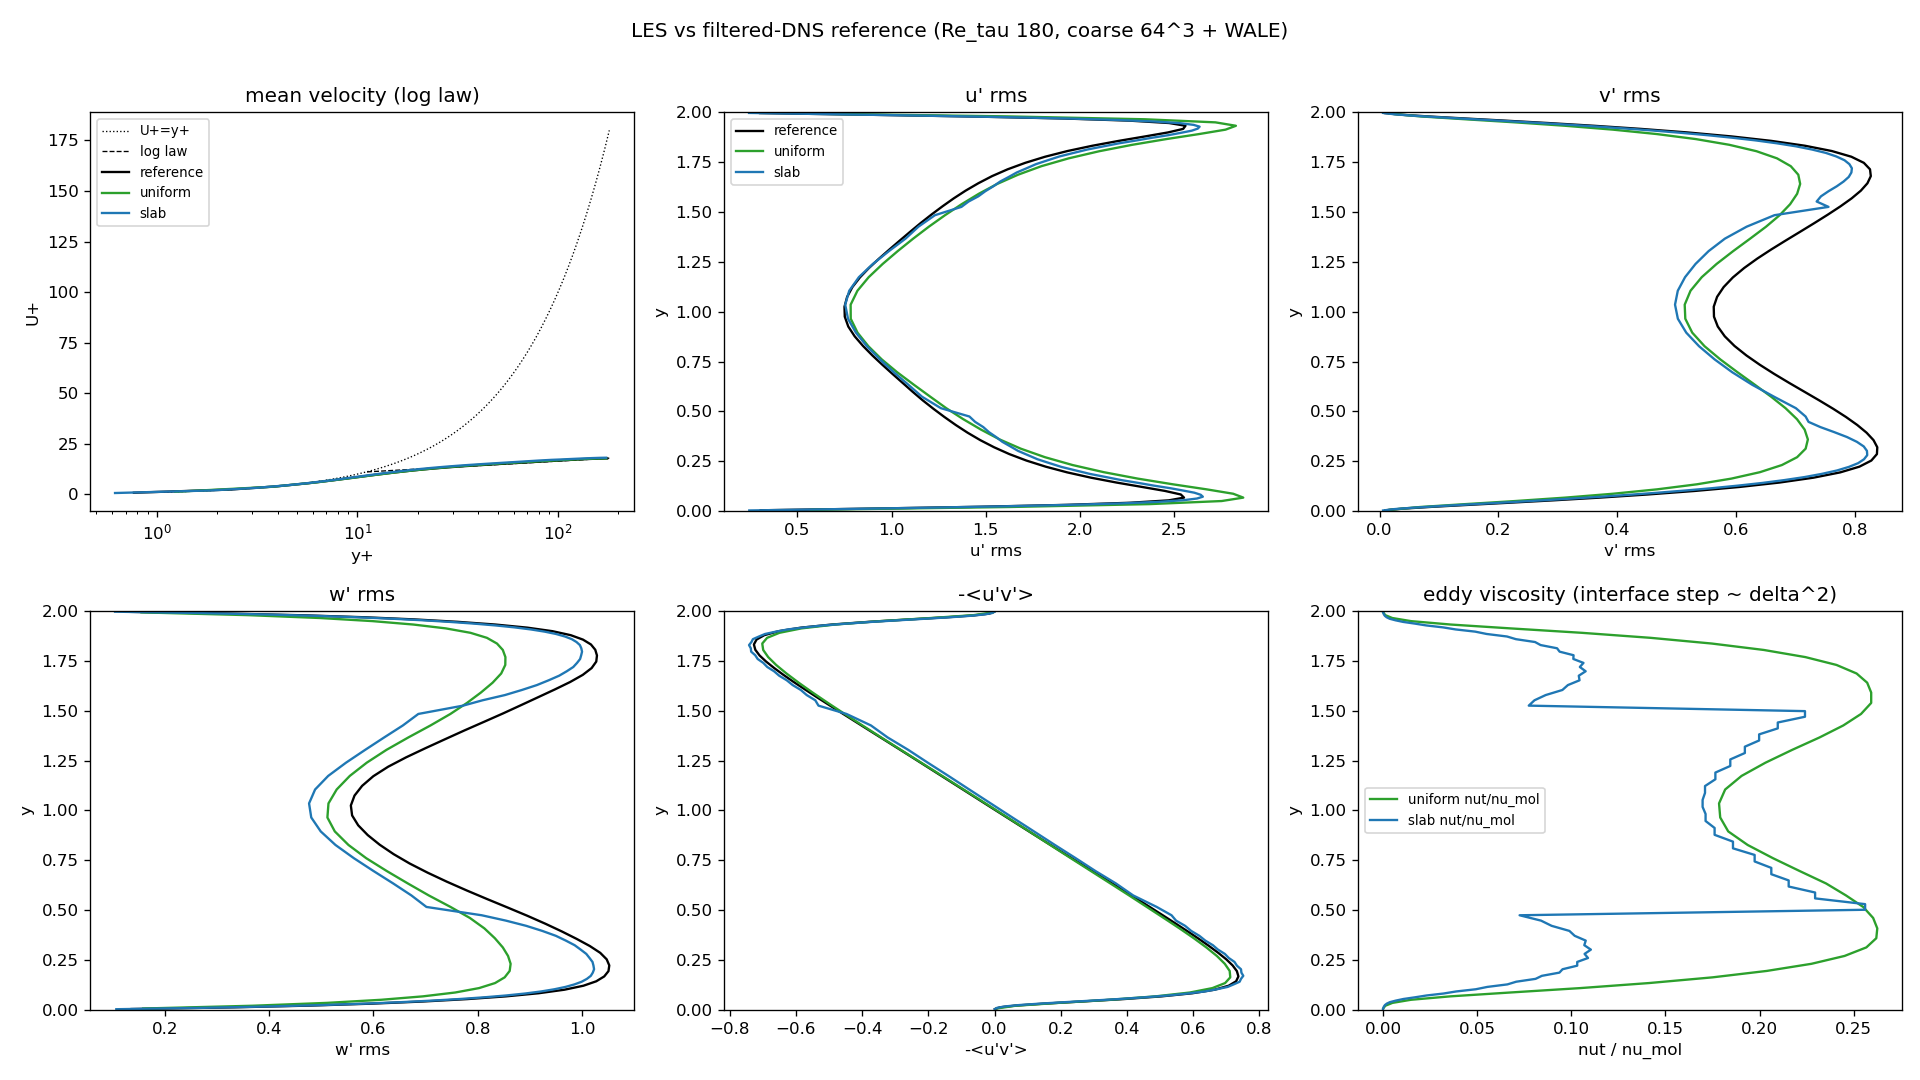
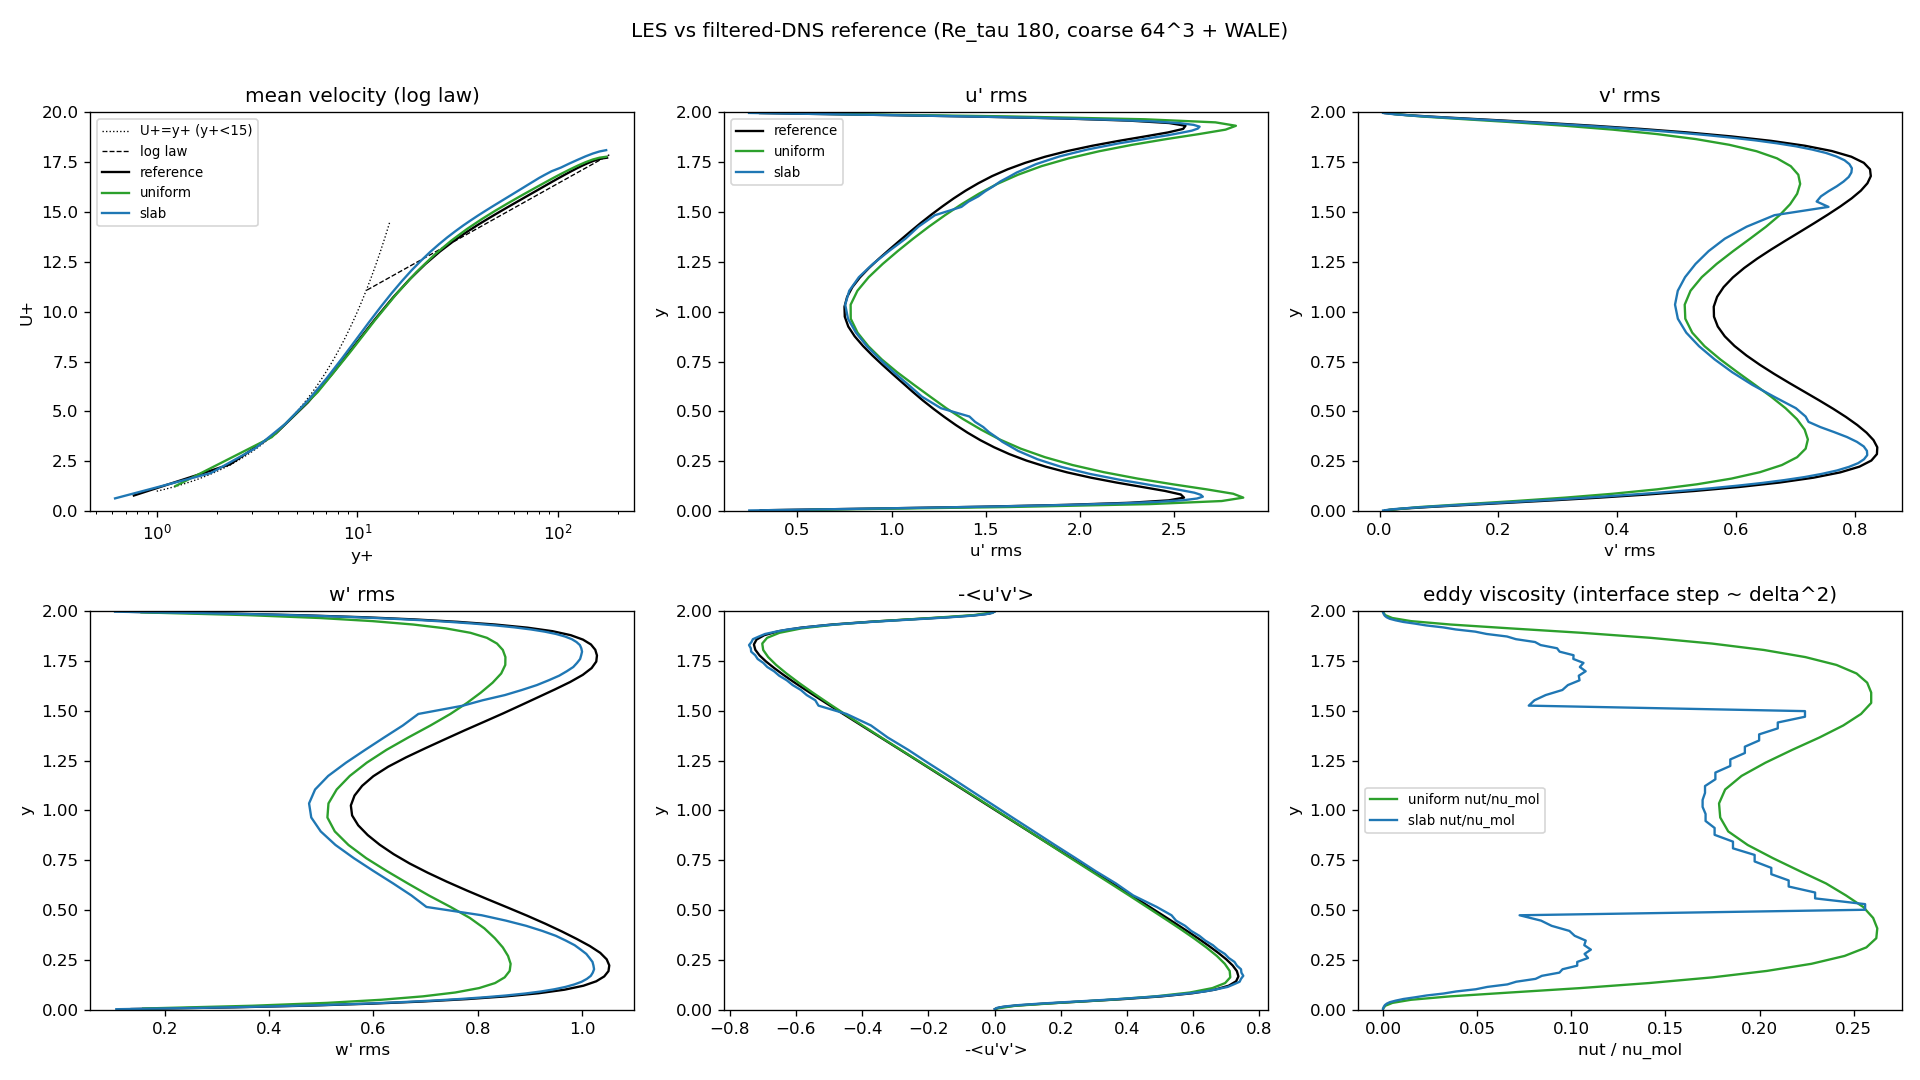
LES validation: cap U+=y+ sublayer line at y+=15 in les_profiles
The viscous-sublayer reference line was drawn to y+=180, blowing the U+ axis up to
180 and squashing the actual profiles (peak U+~18). Cap it at y+<15 and fix the
U+ range to 0..20 so the mean-velocity panel is readable.

diff --git a/validation/channel_interface/les/les_stats.py b/validation/channel_interface/les/les_stats.py
@@ -91,11 +91,14 @@ def homogeneous_figure():
     # U+ vs y+ (log law), lower half only
     a = ax[0, 0]
     yp = np.logspace(0, np.log10(RETAU), 100)
-    a.semilogx(yp, yp, "k:", lw=0.8, label="U+=y+")
-    a.semilogx(yp[yp > 11], np.log(yp[yp > 11]) / 0.41 + 5.2, "k--", lw=0.8, label="log law")
+    sub = yp[yp <= 15]                                  # viscous sublayer line, capped
+    a.semilogx(sub, sub, "k:", lw=0.8, label="U+=y+ (y+<15)")
+    logr = yp[yp >= 11]
+    a.semilogx(logr, np.log(logr) / 0.41 + 5.2, "k--", lw=0.8, label="log law")
     for k in data:
         y = Y[k]; lo = y <= 1.0
         a.semilogx(y[lo] * RETAU, C[k][0][lo], color=COL[k], lw=1.4, label=k)
+    a.set_ylim(0, 20)                                   # data peaks ~18; don't let U+=y+ blow up the axis
     a.set_xlabel("y+"); a.set_ylabel("U+"); a.set_title("mean velocity (log law)"); a.legend(fontsize=8)
 
     for axi, (ci, t) in zip([ax[0, 1], ax[0, 2], ax[1, 0], ax[1, 1]],
